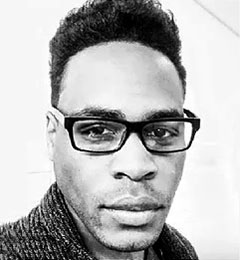
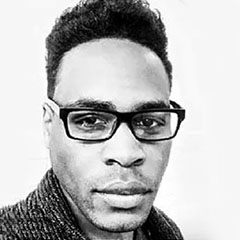
add small headshots

diff --git a/index.html b/index.html
@@ -99,13 +99,16 @@
 				<p>What populations, systems and environments go unconsidered when designing care? Established procedures often result in which communities receive care, but who or what tends to get designated the proper or improper objects of care? This panel aims to lean into the notion of access and discuss what it means to be a receiver of care.</p>
 			</div>
 
-			<!-- <div class="panel_speakers">
-				<img src="speakers/FLang.jpg" alt="" />
-				<img src="speakers/FLang.jpg" alt="" />
-				<img src="speakers/FLang.jpg" alt="" />
-				<img src="speakers/FLang.jpg" alt="" />
-				<img src="speakers/FLang.jpg" alt="" />
-			</div> -->
+			<div class="panel_speakers">
+				<div>
+					<img src="speakers/Louisy_Khahlil.jpg" alt="" />
+					<p class="small"><a href="https://www.linkedin.com/in/khahlil-louisy-69189525/" target="_blank">Khahlil Louisy (Bloomberg Center for Cities)</a></p>
+				</div>
+				<div>
+					<img src="speakers/King_Tyler.jpg" alt="" />
+					<p class="small"><a href="https://www.tylerthedesigner.rocks/" target="_blank">Tyler King (SAP)</a></p>
+				</div>
+			</div>
 		</div>
 
 		<div class="animate__animated animate__fadeInLeft">
@@ -123,13 +126,17 @@
 				<p>We tend to hold rigid definitions of who can be a caregiver, yet seldom question the hands in the backstage and the position of the carer. This panel aims to challenge and redefine the role of a care provider. What are unique and undiscovered avenues of providing care and who has the power to care?</p>
 			</div>
 
-			<!-- <div class="panel_speakers">
-				<img src="speakers/FLang.jpg" alt="" />
-				<img src="speakers/FLang.jpg" alt="" />
-				<img src="speakers/FLang.jpg" alt="" />
-				<img src="speakers/FLang.jpg" alt="" />
-				<img src="speakers/FLang.jpg" alt="" />
-			</div> -->
+			<div class="panel_speakers">
+				<div>
+					<img src="speakers/Sonin_Juhan.jpg" alt="" />
+					<p class="small"><a href="https://www.linkedin.com/in/juhansonin/" target="_blank">Sonin Juhan (Golvno &amp; MIT)</a></p>
+				</div>
+				<div>
+					<img src="speakers/Bobbitt_Michael_J.jpg" alt="" />
+					<p class="small"><a href="https://linktr.ee/MichaelJBobbitt" target="_blank">Michael J. Bobbitt (Mass Cultural Council)</a></p>
+				</div>
+				
+			</div>
 		</div>
 
 		<div class="animate__animated animate__fadeInLeft">
@@ -148,13 +155,16 @@
 				
 			</div>
 
-			<!-- <div class="panel_speakers">
-				<img src="speakers/FLang.jpg" alt="" />
-				<img src="speakers/FLang.jpg" alt="" />
-				<img src="speakers/FLang.jpg" alt="" />
-				<img src="speakers/FLang.jpg" alt="" />
-				<img src="speakers/FLang.jpg" alt="" />
-			</div> -->
+			<div class="panel_speakers">
+				<div>
+					<img src="speakers/Chang_Ti.jpg" alt="" />
+					<p class="small"><a href="https://www.linkedin.com/in/tichang" target="_blank">Ti Chang (CRAVE)</a></p>
+				</div>
+				<div>
+					<img src="speakers/Tomlinson_Raleigh.jpg" alt="" />
+					<p class="small"><a href="https://raleigh.design/" target="_blank">Raleigh Tomlinson (Headspace Health)</a></p>
+				</div>
+			</div>
 		</div>
 
 		<div class="animate__animated animate__fadeInLeft">
@@ -277,18 +287,18 @@
 
 		<div class="profile">
 			<div>
+				<img src="speakers/Bobbitt_Michael_J.jpg" alt="Michael J. Bobbitt" />
+				<h3><a href="https://linktr.ee/MichaelJBobbitt" target="_blank">Michael J. Bobbitt</a> (he/him)</h3>
+				<span>Executive Director, Mass Cultural Council</span>
+				<p class="small">Michael J. Bobbitt is the Executive Director of Mass Cultural Council, an award-winning theater director, choreographer, and playwright. He serves on the Board of Directors for the New England Foundation for the Arts and the National Assembly of State Arts Agency. Recently, he was appointed to the Governor's Advisory Council on Black Empowerment.  Bobbitt is the former Artistic Director of the New Repertory Theater and the Adventure Theater.</p>
+			</div>
+
+			<div>
 				<img src="speakers/Sonin_Juhan.jpg" alt="Juhan Sonin" />
 				<h3><a href="https://www.linkedin.com/in/juhansonin/" target="_blank">Juhan Sonin</a> (he/him)</h3>
 				<span>Creative Sandpaper, GoInvo & MIT</span>
 				<p class="small">Juhan Sonin designs the future of healthcare at GoInvo. His design infects local, state, and national healthcare systems from food stamps in Massachusetts to care planning for half of US residents. Our healthcare is too important to be closed, which is why he drives an open source agenda to make life better for patients and clinicians. Sonin also teaches engineering + design at MIT.
 				</p>
-			</div>
-
-			<div>
-				<img src="speakers/Bobbitt_Michael_J.jpg" alt="Michael J. Bobbitt" />
-				<h3><a href="https://linktr.ee/MichaelJBobbitt" target="_blank">Michael J. Bobbitt</a> (he/him)</h3>
-				<span>Executive Director, Mass Cultural Council</span>
-				<p class="small">Michael J. Bobbitt is the Executive Director of Mass Cultural Council, an award-winning theater director, choreographer, and playwright. He serves on the Board of Directors for the New England Foundation for the Arts and the National Assembly of State Arts Agency. Recently, he was appointed to the Governor's Advisory Council on Black Empowerment.  Bobbitt is the former Artistic Director of the New Repertory Theater and the Adventure Theater.</p>
 			</div>
 
 			<!-- <div>
@@ -328,6 +338,13 @@
 
 		<div class="profile">
 			<div>
+				<img src="speakers/Chang_Ti.jpg" alt="Ti Chang" />
+				<h3><a href="https://www.linkedin.com/in/tichang" target="_blank">Ti Chang</a> (she/her)</h3>
+				<span>Co-Founder and Chief Design Officer, CRAVE</span>
+				<p class="small">Ti Chang is an American industrial designer whose pioneering work in pleasure products has elevated a new definition of luxury in intimacy products. She is the co-founder of CRAVE and the visionary behind pleasure jewelry, adornments that inspire sensual empowerment and provoke cultural conversations. She is best known for the design of Vesper vibrator necklace in 2014, one of the most celebrated and iconic pleasure products, as seen on A-list celebrities including Madonna and Janet Jackson. Chang's design vision has won international design awards and has led CRAVE to mainstream partnerships with the likes of Nordstrom, Goop, Ulta Beauty, including a collaboration with Saint Laurent. Chang is a classically trained industrial designer with an M.A. in Design Products from the Royal College of Art in London and a B.S. in Industrial Design from the Georgia Institute of Technology.</p>
+			</div>
+
+			<div>
 				<img src="speakers/Tomlinson_Raleigh.jpg" alt="" />
 				<h3><a href="https://raleigh.design/" target="_blank">Raleigh Tomlinson</a> (she/her)</h3>
 				<span>Senior Product Designer, Headspace Health
@@ -335,12 +352,6 @@
 				<p class="small">As a product designer at Headspace Health, Raleigh Tomlinson's goal is to design products that not only meet the needs of users, but also enhance their overall well-being and care experience. With a focus on human-centered design, Tomlinson strives to create intuitive and accessible solutions that promote self-care, mindfulness, and resilience. She believes that every individual deserves access to quality mental health care and is  committed to making that a reality through her work at Headspace Health. In addition to this, she is dedicated to creating tools that empower our clinicians to deliver the highest quality care possible.</p>
 			</div>
 
-			<div>
-				<img src="speakers/Chang_Ti.jpg" alt="Ti Chang" />
-				<h3><a href="https://www.linkedin.com/in/tichang" target="_blank">Ti Chang</a> (she/her)</h3>
-				<span>Co-Founder and Chief Design Officer, CRAVE</span>
-				<p class="small">Ti Chang is an American industrial designer whose pioneering work in pleasure products has elevated a new definition of luxury in intimacy products. She is the co-founder of CRAVE and the visionary behind pleasure jewelry, adornments that inspire sensual empowerment and provoke cultural conversations. She is best known for the design of Vesper vibrator necklace in 2014, one of the most celebrated and iconic pleasure products, as seen on A-list celebrities including Madonna and Janet Jackson. Chang's design vision has won international design awards and has led CRAVE to mainstream partnerships with the likes of Nordstrom, Goop, Ulta Beauty, including a collaboration with Saint Laurent. Chang is a classically trained industrial designer with an M.A. in Design Products from the Royal College of Art in London and a B.S. in Industrial Design from the Georgia Institute of Technology.</p>
-			</div>
 
 			<!-- <div>
 				<img src="" alt="" />

diff --git a/assets/style.css b/assets/style.css
@@ -360,11 +360,18 @@ footer a:link, a:visited {
 .panel_speakers {
   display: flex;
   flex-wrap: wrap;
+  flex-direction: row;
   gap: 0.5rem;
   margin-bottom: 0.5rem;
 }
+.panel_speakers > div {
+  display: flex;
+  flex-direction: column;
+  flex-wrap: wrap;
+  max-width: 150px;
+}
 .panel img {
-  height: 120px;
+  width: 150px;
 }
 
 /* wrap columns at small screens */
